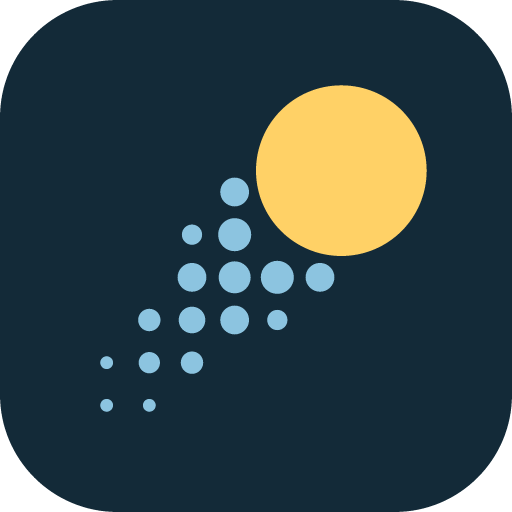
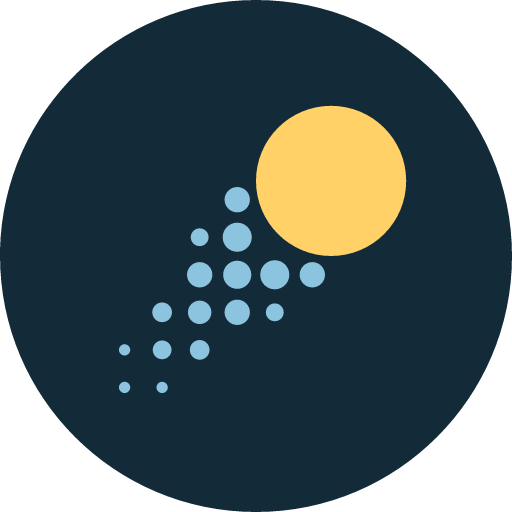
feat(web): the comet on a night disc
The favicon, the mark beside the name and the README show the comet at 88% of a navy disc, which reads better than the tile at 16 px. Where iOS and Android cut their own shape from a full square, tools/icons sets it on a navy square inside the launchers' safe zone.

diff --git a/DESIGN.md b/DESIGN.md
@@ -115,7 +115,7 @@ Afterimage wears [linen](https://github.com/lutyjj/linen), the design language i
 - Hue 218, teal-blue: the cool complement a warm light leaves behind.
 - Schibsted Grotesk for every word; JetBrains Mono for what is typed or copied verbatim.
 - Displays at 1:1 (up to 800 pixels) on e-paper white in both themes.
-- The icon, the comet: a yellow light and the sky-blue afterimage it leaves behind, dissolving into halftone dots, on a night tile. `web/public/icon.svg` is its one drawing; `tools/icons` renders the PNGs.
+- The icon, the comet: a yellow light and the sky-blue afterimage it leaves behind, dissolving into halftone dots, at 88% of a night disc. `web/public/icon.svg` is its one drawing, used as the favicon, the in-app mark and the README's; `tools/icons` renders the PNGs, with a full night square where iOS and Android cut their own shape.
 - When a display's image changes, the one before lingers and fades.
 
 ## Colors
